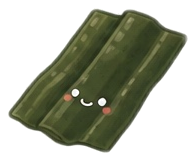
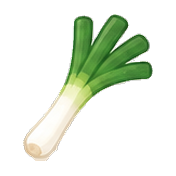
青ネギのアイコンを修正し、英語ランク表示の折り返し崩れを修正
- public/ingredients/aonegi.png(青ねぎ用アイコン)の中身が実際には
  昆布の絵になっていた不具合を修正。負ぎ(negi.png)の画像を流用する
  形で差し替え
- 英語表示時、"Chef de Cuisine"や"Chef Exécutif"など日本語より長い
  ランク名が幅の狭い端末でアイコンとテキストの縦積みを引き起こして
  いたのを修正。.rankPillを縮小可能にし、.rankNameはnowrap+
  text-overflow:ellipsisで収まらない場合は省略表示に切り替える
  ようにした(iPhone SE相当の375px幅、Lv.10表示で確認)

Claude-Session: https://claude.ai/code/session_01JSyvQxFj8Y9hdoYTCqLPB3

diff --git a/src/components/ChefProfileBadge.module.css b/src/components/ChefProfileBadge.module.css
@@ -19,7 +19,11 @@
   background: rgba(255, 111, 145, 0.14);
   padding: 4px 12px 4px 4px;
   border-radius: 20px;
-  flex-shrink: 0;
+  /* 英語のランク名(例: "Chef de Cuisine")は日本語より長く、幅の狭い端末だと
+     アイコンとテキストが縦に折り返ってしまっていたため、横並びを維持しつつ
+     テキスト側だけ省略記号で収める */
+  flex-shrink: 1;
+  min-width: 0;
 }
 
 .rankIcon {
@@ -33,6 +37,10 @@
   font-size: 14px;
   font-weight: 900;
   color: var(--primary-text);
+  white-space: nowrap;
+  overflow: hidden;
+  text-overflow: ellipsis;
+  min-width: 0;
 }
 
 .metricsGroup {
